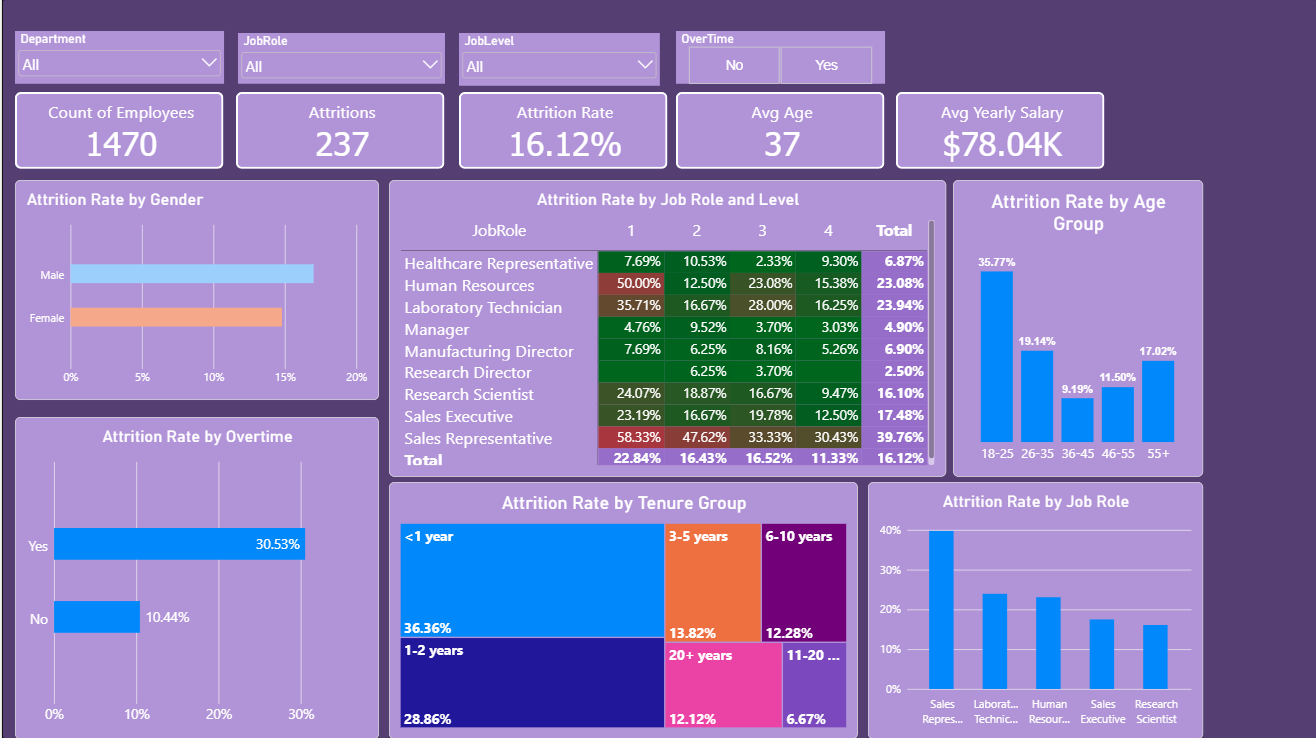
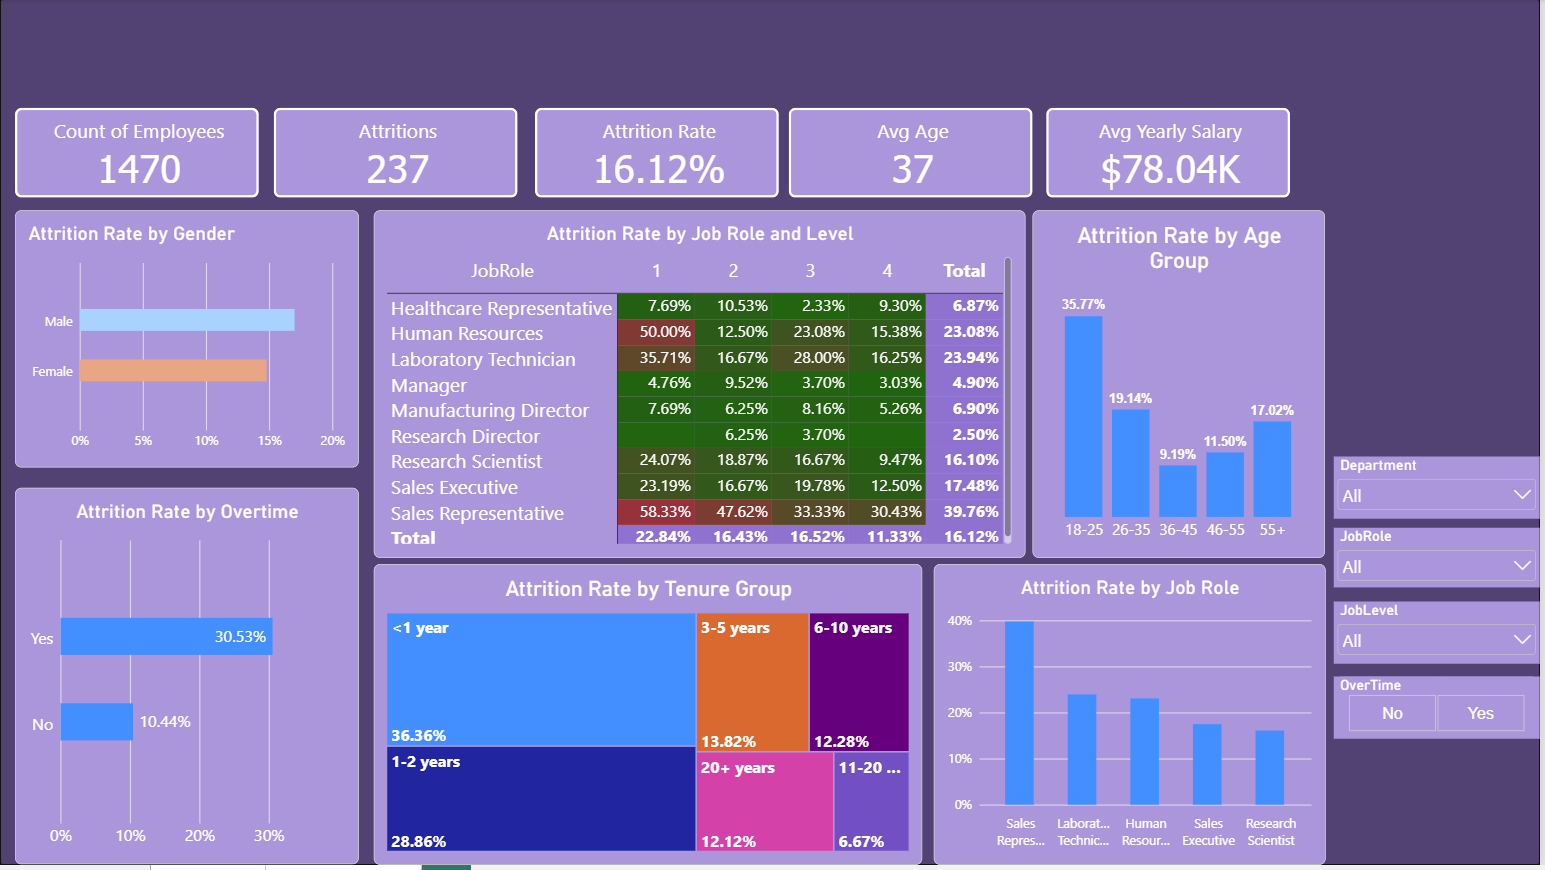
Add titles to pages. Slight visual modifications for readability

diff --git a/README.md b/README.md
@@ -4,6 +4,10 @@ Source: https://www.kaggle.com/datasets/rishikeshkonapure/hr-analytics-predictio
 
 Work in progress
 
-Current State of Dashboard
+### Current State of Dashboard
 
+#### Page 1
 ![alt text](image.png)
+
+#### Page 2
+![alt text](image-1.png)
